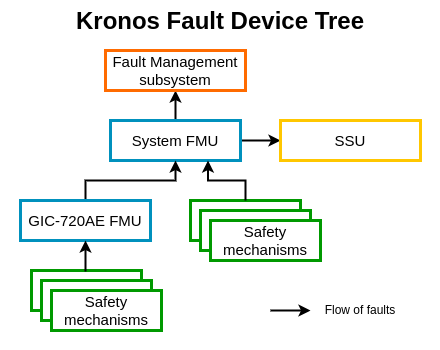
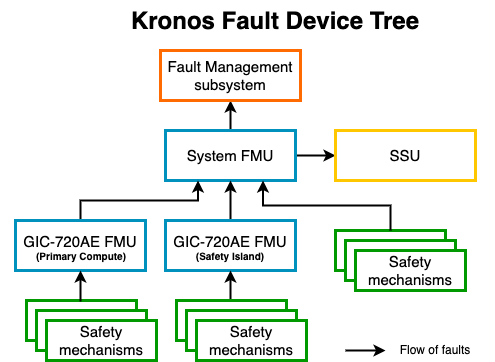
docs: Introduce Safety Island GIC FMU
Update documentation about the introduction of the Safety Island GIC
FMU, update validation and reproduce page as well given some changes
to the testing framework test names.

diff --git a/documentation/user_guide/reproduce.rst b/documentation/user_guide/reproduce.rst
@@ -2569,14 +2569,16 @@ and GIC-720AE FMU and how this affects the SSU safety state.
       fault tree
 
     The output shows the root fault device ``fmu@2a510000`` (the System FMU),
-    after which are the attached safety state device ``ssu@2a500000`` and
-    fault device ``fmu@2a570000`` (the GIC-720AE FMU):
+    after which are the attached safety state device ``ssu@2a500000``, the
+    fault device ``fmu@2a570000`` (the Primary Compute GIC-720AE FMU) and the
+    fault device ``fmu@2a530000`` (the Safety Island GIC-720AE FMU):
 
     .. code-block:: text
 
       Root 0: fmu@2a510000
               Safety: ssu@2a500000
               Slot 0: fmu@2a570000
+              Slot 1: fmu@2a530000
 
  2. After booting, query the initial state of the SSU:
 
@@ -2748,8 +2750,8 @@ The following messages are expected in the output to validate this Use-Case:
 
 .. code-block:: text
 
+  RESULTS - test_10_fault_mgmt.FaultMgmtSSUTest.test_gic_fmu_ssu_compl_ok: PASSED (96.24s)
   RESULTS - test_10_fault_mgmt.FaultMgmtSSUTest.test_ssu_ce_not_ok: PASSED (38.18s)
-  RESULTS - test_10_fault_mgmt.FaultMgmtSSUTest.test_ssu_compl_ok: PASSED (30.66s)
   RESULTS - test_10_fault_mgmt.FaultMgmtSSUTest.test_ssu_nce_ok: PASSED (29.24s)
   RESULTS - test_10_fault_mgmt.FaultMgmtTest.test_fmu_fault_clear: PASSED (11.24s)
   RESULTS - test_10_fault_mgmt.FaultMgmtTest.test_fmu_fault_count: PASSED (6.04s)

diff --git a/documentation/design/validation.rst b/documentation/design/validation.rst
@@ -390,7 +390,8 @@ of faults in the FMU device tree:
   * ``test_system_fmu_internal_set_enabled`` validates disabling System FMU
     faults.
   * ``test_gic_fmu_inject`` validates the injection and reporting of GIC-720AE
-    FMU faults (critical and non-critical).
+    FMU faults from Primary Compute and Safety Island (critical and
+    non-critical).
   * ``test_fmu_fault_count`` validates the reporting of the overall fault
     count.
   * ``test_fmu_fault_list`` validates the list of reported fault counts.
@@ -401,8 +402,8 @@ of faults in the FMU device tree:
 machine using three test cases (with a full system reset between each one to
 transition from ``ERRC`` back to ``TEST``):
 
- * ``test_ssu_compl_ok``, which triggers a non-critical fault, recovers then
-   triggers a critical fault.
+ * ``test_gic_fmu_ssu_compl_ok``, which triggers a non-critical fault, recovers
+   then triggers a critical fault, for each upstream GIC FMU.
  * ``test_ssu_nce_ok``, in which the self-test fails with a non-critical fault
    which is then signaled as critical.
  * ``test_ssu_ce_not_ok``, in which the self-test fails with a critical fault.

diff --git a/documentation/releasenotes.rst b/documentation/releasenotes.rst
@@ -34,6 +34,7 @@ Changed
 * Enabled PSA Internal Trusted Storage API on Primary Compute
 * Added an AP_REFCLK non-secure Generic Timer node in Kronos device tree
 * Updated identified non-alignments on RD-Kronos for Devicetree missing schemas
+* Introduced Safety Island GIC FMU device for Safety Island Cluster 1 and automated tests.
 
 .. _releasenotes_limitations:
 

diff --git a/documentation/design/fault_mgmt.rst b/documentation/design/fault_mgmt.rst
@@ -235,6 +235,8 @@ The Kronos FVP models:
  * A System FMU in the Safety Island, attached to the SSU.
  * An FMU attached to the GIC-720AE in the Primary Compute, attached to the
    System FMU.
+ * An FMU attached to the GIC-720AE in the Safety Island, attached to the
+   System FMU.
 
 .. image:: ../images/kronos_fault_device_tree.*
    :align: center
